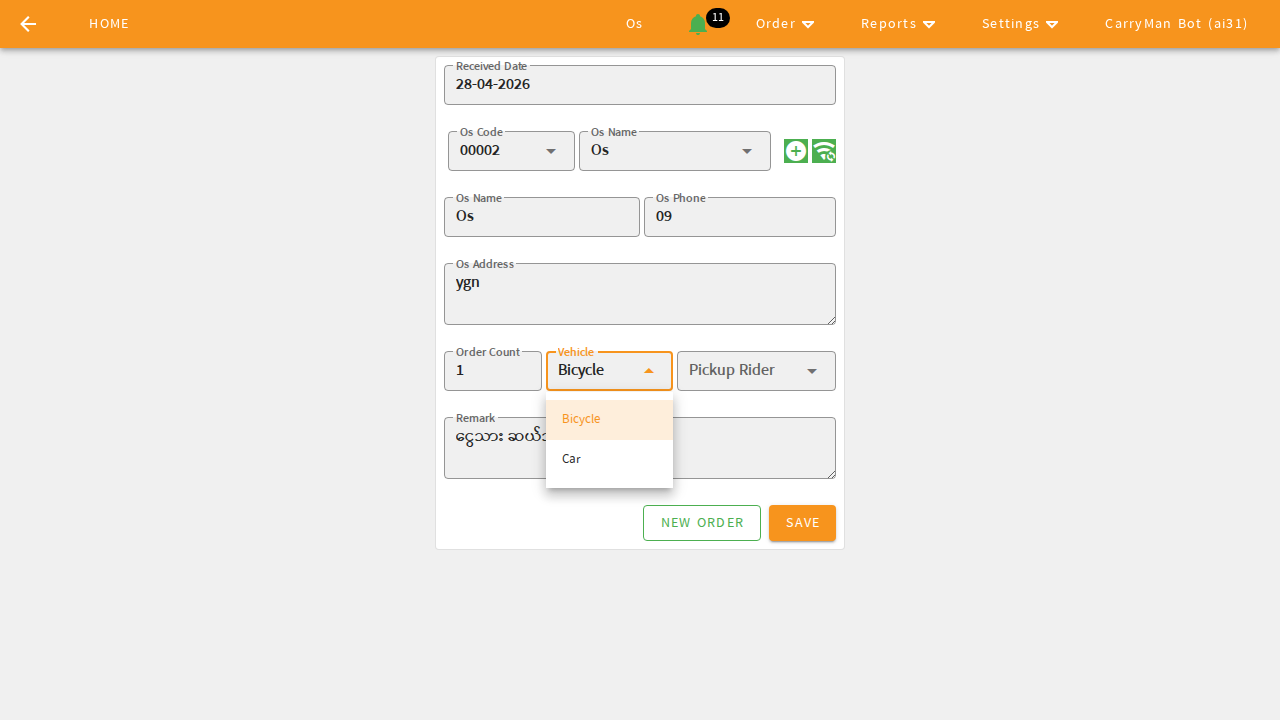
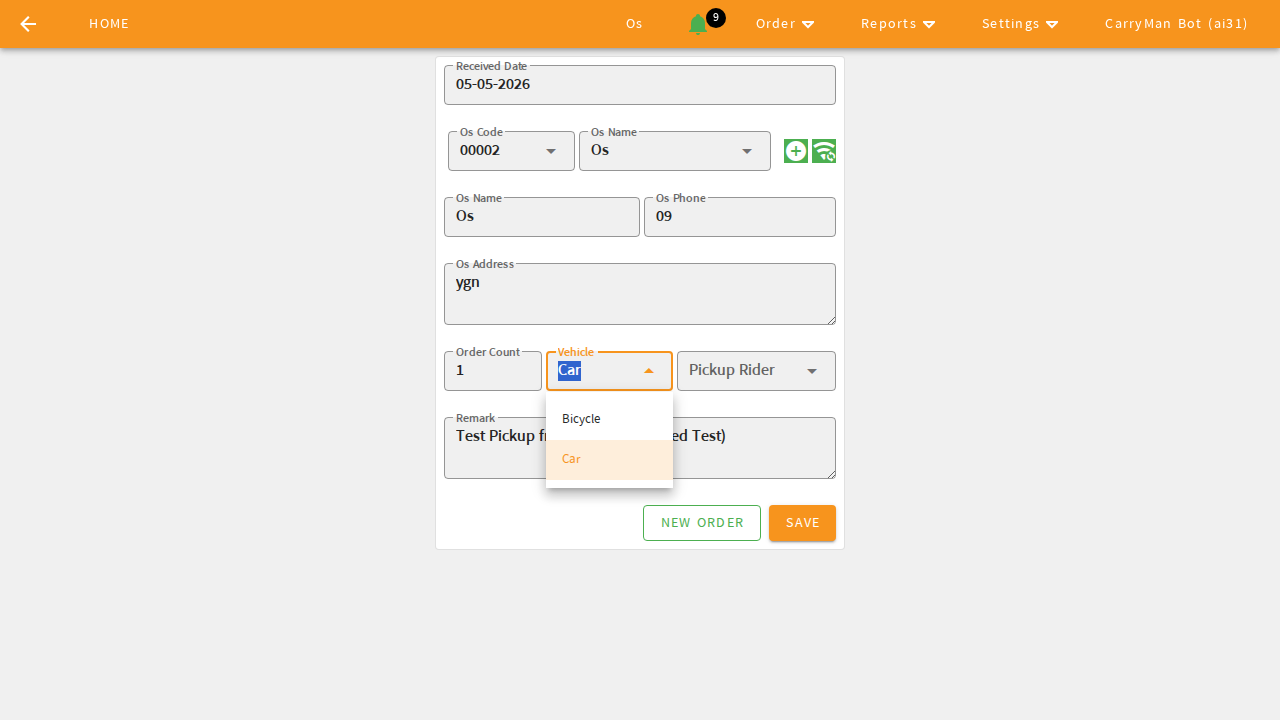
chore: update master framework and finalize shop mapping & browser fixes

Changed region(s): [[0.3438, 0.4889, 0.5625, 0.6722], [0.3438, 0.0917, 0.375, 0.1222]]

diff --git a/modules/auto_pickup.py b/modules/auto_pickup.py
@@ -124,7 +124,7 @@ async def _submit_pickup_task(page, target_date, os_name, remark, vehicle):
             await p.wait_for_selector(".ant-spin, .loading-spinner, .spinner", state="hidden", timeout=10000)
         except:
             pass
-        await p.wait_for_selector("form, .ant-form, input[name='order.receivedDate']", state="visible", timeout=15000)
+        await p.wait_for_selector("form, .ant-form, input[id*='receivedDate'], label:has-text('Received Date')", state="visible", timeout=15000)
 
     try:
         await wait_for_page_ready(page)
@@ -135,17 +135,26 @@ async def _submit_pickup_task(page, target_date, os_name, remark, vehicle):
     await handle_popups(page)
 
     # (က) Date
-    date_input = page.locator("input[name='order.receivedDate']")
+    # 💡 Use a more robust label-based selector for the date field
+    date_input = page.locator("//label[contains(text(), 'Received Date')]/following::input[1]")
+    
     try:
-        await date_input.wait_for(state="attached", timeout=10000)
+        await date_input.wait_for(state="visible", timeout=15000)
     except Exception:
         log.warning("⚠️ Date field မတွေ့ပါ။ Page ကို Refresh လုပ်ပြီး တစ်ကြိမ် ထပ်ကြိုးစားကြည့်ပါမည်...")
         await page.reload()
-        await page.wait_for_load_state('networkidle')
+        await page.wait_for_load_state('domcontentloaded')
         await wait_for_page_ready(page)
-        await date_input.wait_for(state="attached", timeout=15000)
+        await date_input.wait_for(state="visible", timeout=20000)
 
-    await date_input.evaluate(f"(el) => {{ el.value = '{target_date}'; el.dispatchEvent(new Event('input', {{ bubbles: true }})); el.dispatchEvent(new Event('change', {{ bubbles: true }})); }}")
+    # Set date using multiple methods to ensure it sticks (especially for readonly fields)
+    log.info(f"📅 ရက်စွဲ သတ်မှတ်နေပါသည်: {target_date}")
+    await date_input.evaluate("""(el, val) => {
+        el.value = val;
+        el.dispatchEvent(new Event('input', { bubbles: true }));
+        el.dispatchEvent(new Event('change', { bubbles: true }));
+    }""", target_date)
+    await asyncio.sleep(1)
     await page.locator("body").click(force=True)
     log.info(f"   ✅ ရက်စွဲဖြည့်ပြီးပါပြီ ({target_date})")
 
@@ -179,14 +188,18 @@ async def _submit_pickup_task(page, target_date, os_name, remark, vehicle):
         return False, f"Website ထဲတွင် ဆိုင်နာမည် ({os_name}) ကို ရှာမတွေ့ပါ။"
 
     log.info(f"   ✅ OS Name ရွေးပြီးပါပြီ")
+    
+    # 💡 Website Auto-fill ကို စောင့်ခြင်း (ဆိုင်ရွေးပြီးရင် အချက်အလက်အဟောင်းတွေ တက်လာတတ်လို့)
+    log.info("⏳ Website auto-fill လုပ်ဆောင်ချက်ကို (၅) စက္ကန့် စောင့်နေပါသည်...")
+    await asyncio.sleep(5)
 
     # (ဂ) Vehicle
     vehicle_input = page.locator("(//label[contains(text(), 'Vehicle')]/following::input)[1]")
     await handle_popups(page)
+    
+    log.info(f"🚲 ယာဉ်အမျိုးအစား ရွေးချယ်နေပါသည် ({vehicle})...")
     await vehicle_input.click()
     await asyncio.sleep(1)
-    
-    # Clear and type vehicle name
     await vehicle_input.fill("")
     await vehicle_input.press_sequentially(vehicle, delay=100)
     await asyncio.sleep(2)
@@ -194,19 +207,16 @@ async def _submit_pickup_task(page, target_date, os_name, remark, vehicle):
     # More robust dropdown selection for Ant Design
     v_found = False
     try:
-        # Ant Design options are usually in a div with class ant-select-item-option
-        # We wait for the dropdown to be visible first
-        dropdown_list = page.locator(".ant-select-dropdown:not(.ant-select-dropdown-hidden)")
-        
+        # Wait for dropdown to be visible
+        await page.wait_for_selector(".ant-select-dropdown:not(.ant-select-dropdown-hidden)", timeout=5000)
         v_options = page.locator(".ant-select-item-option")
         v_count = await v_options.count()
         for i in range(v_count):
             v_text = await v_options.nth(i).inner_text()
             if vehicle.lower() in v_text.lower():
                 log.info(f"   🎯 Found vehicle option: {v_text.strip()}. Clicking...")
-                await v_options.nth(i).click(timeout=5000)
+                await v_options.nth(i).click(force=True)
                 v_found = True
-                # Wait for dropdown to close
                 await asyncio.sleep(1)
                 break
     except Exception as ve:
@@ -224,15 +234,19 @@ async def _submit_pickup_task(page, target_date, os_name, remark, vehicle):
         if await page.locator(".ant-select-dropdown:not(.ant-select-dropdown-hidden)").count() > 0:
             log.warning("⚠️ Dropdown still open. Forcing close with Escape...")
             await page.keyboard.press("Escape")
-            await asyncio.sleep(0.5)
+            await asyncio.sleep(1)
     except: pass
     
     log.info(f"   ✅ ယာဉ်ရွေးပြီးပါပြီ ({vehicle})")
 
-    # (ဃ) Remark
+    # (ဃ) Remark (Fill this LAST to ensure it's not overwritten by website auto-fill)
+    log.info(f"📝 မှတ်ချက် နောက်ဆုံးမှ ထပ်မံဖြည့်သွင်းနေပါသည် ({remark})...")
     remark_input = page.locator("textarea[name='order.remark']")
+    await remark_input.click(click_count=3) # Select all existing text
+    await page.keyboard.press("Backspace")
     await remark_input.fill(remark)
-    log.info(f"   ✅ မှတ်ချက်ဖြည့်ပြီးပါပြီ ({remark})")
+    await asyncio.sleep(1)
+    log.info(f"   ✅ မှတ်ချက်ဖြည့်ပြီးပါပြီ")
 
     await page.locator("body").click(force=True)
     await asyncio.sleep(2) 
@@ -247,11 +261,26 @@ async def _submit_pickup_task(page, target_date, os_name, remark, vehicle):
     await asyncio.sleep(1)
     
     # Try multiple selectors for the Save button
-    save_button = page.locator("button.ant-btn-primary, button:has-text('SAVE'), button:has-text('Save'), //button[descendant::span[contains(text(), 'SAVE') or contains(text(), 'Save')]]")
+    save_selectors = [
+        "button.ant-btn-primary",
+        "button:has-text('SAVE')",
+        "button:has-text('Save')",
+        "//button[descendant::span[contains(text(), 'SAVE') or contains(text(), 'Save')]]"
+    ]
     
-    if await save_button.count() > 0:
+    save_btn = None
+    for selector in save_selectors:
+        try:
+            loc = page.locator(selector).first
+            if await loc.is_visible():
+                save_btn = loc
+                break
+        except:
+            continue
+
+    if save_btn:
         log.info("💾 SAVE ခလုတ်ကို နှိပ်လိုက်ပါပြီ။")
-        await save_button.first.click(force=True)
+        await save_btn.click(force=True)
     else:
         log.error("❌ Save button ကို ရှာမတွေ့ပါ။")
         return False, "Save button ကို ရှာမတွေ့ပါ။"

diff --git a/handlers/pickup_handler.py b/handlers/pickup_handler.py
@@ -431,7 +431,19 @@ def register_pickup_handlers(bot: telebot.TeleBot):
             db_manager.confirm_pickup_order(queue_id, shop_msg_id=call.message.message_id)
 
             from modules import auto_pickup
-            db_manager.add_pickup_intermediate_msg(chat_id, orig_msg_id, call.message.message_id)
+            
+            # 💡 အတည်ပြုပြီးသည်နှင့် ကြားဖြတ်စာများကို ချက်ချင်းရှင်းလင်းမည် (Status Message ကိုတော့ ချန်ထားမည်)
+            try:
+                msg_ids = db_manager.get_pickup_intermediate_msgs(chat_id, orig_msg_id)
+                for mid in msg_ids:
+                    if mid != call.message.message_id: # လက်ရှိ Status ပြနေတဲ့စာကို မဖျက်ပါ
+                        try: bot.delete_message(chat_id, mid)
+                        except: pass
+                # DB ထဲက စာရင်းကို ရှင်းမည်
+                db_manager.delete_pickup_intermediate_msgs(chat_id, orig_msg_id)
+            except Exception as ce:
+                log.error(f"❌ Cleanup during confirm error: {ce}")
+
             auto_pickup.update_central_pickup_alert(bot, orig_msg_id, chat_id, "⏳ Pending")
                 
         except Exception as e:

diff --git a/modules/browser_manager.py b/modules/browser_manager.py
@@ -44,10 +44,15 @@ class BrowserManager:
             raise Exception("Browser initialization timed out.")
 
         future = asyncio.run_coroutine_threadsafe(
-            self._execute_with_resource_guard(coro_func, *args, **kwargs), 
+            self._execute_with_resource_guard(coro_func, *args, **kwargs),
             self.loop
         )
-        return future.result()
+        # 💡 Safety Timeout: 5 minutes max for any browser task
+        try:
+            return future.result(timeout=300)
+        except TimeoutError:
+            log.error(f"❌ Browser task timed out after 5 minutes: {coro_func.__name__}")
+            raise Exception("Browser task timed out.")
 
     async def _execute_with_resource_guard(self, coro_func, storage_state=None, *args, **kwargs):
         """Wait for semaphore and execute the task in a new tab"""

diff --git a/modules/auto_login.py b/modules/auto_login.py
@@ -19,7 +19,7 @@ async def _auto_login_task(page, **kwargs):
     login_url = "https://www.carrymanexpress.com/login"
     log.info(f"🔗 {login_url} သို့ သွားနေပါသည်...")
     await page.goto(login_url)
-    await page.wait_for_load_state('networkidle')
+    await page.wait_for_load_state('domcontentloaded')
 
     log.info("🔑 Login အချက်အလက်များ ရိုက်ထည့်နေပါသည်...")
     await page.fill("//input[@type='text']", username)
@@ -30,7 +30,7 @@ async def _auto_login_task(page, **kwargs):
 
     log.info("⏳ Login အောင်မြင်သည်အထိ စောင့်နေပါသည်...")
     await asyncio.sleep(5)
-    await page.wait_for_load_state('networkidle')
+    await page.wait_for_load_state('domcontentloaded')
 
     if "login" in page.url.lower():
         log.error("❌ Login မအောင်မြင်ပါ။")